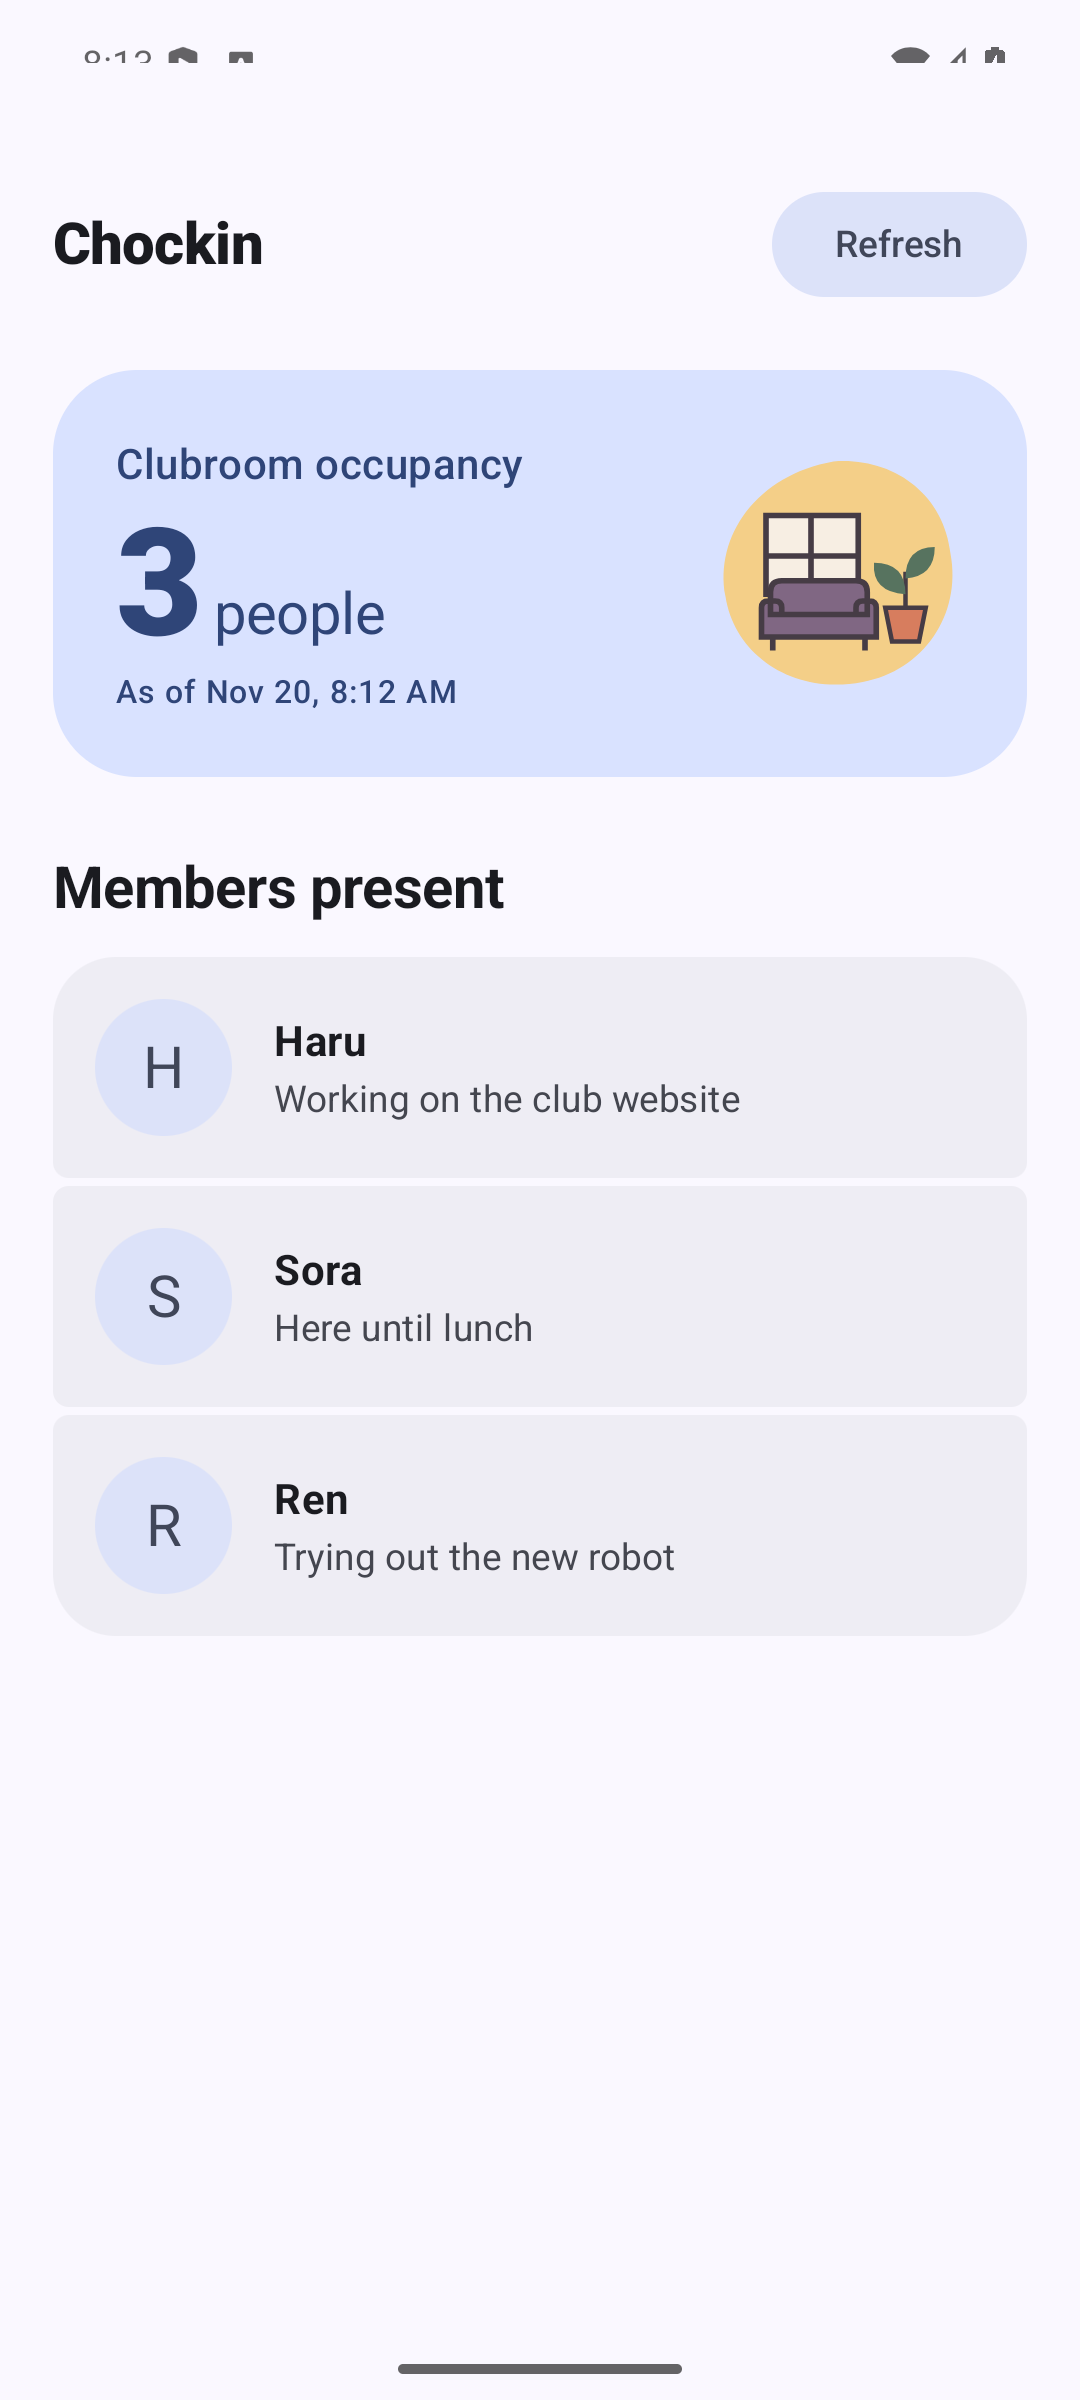
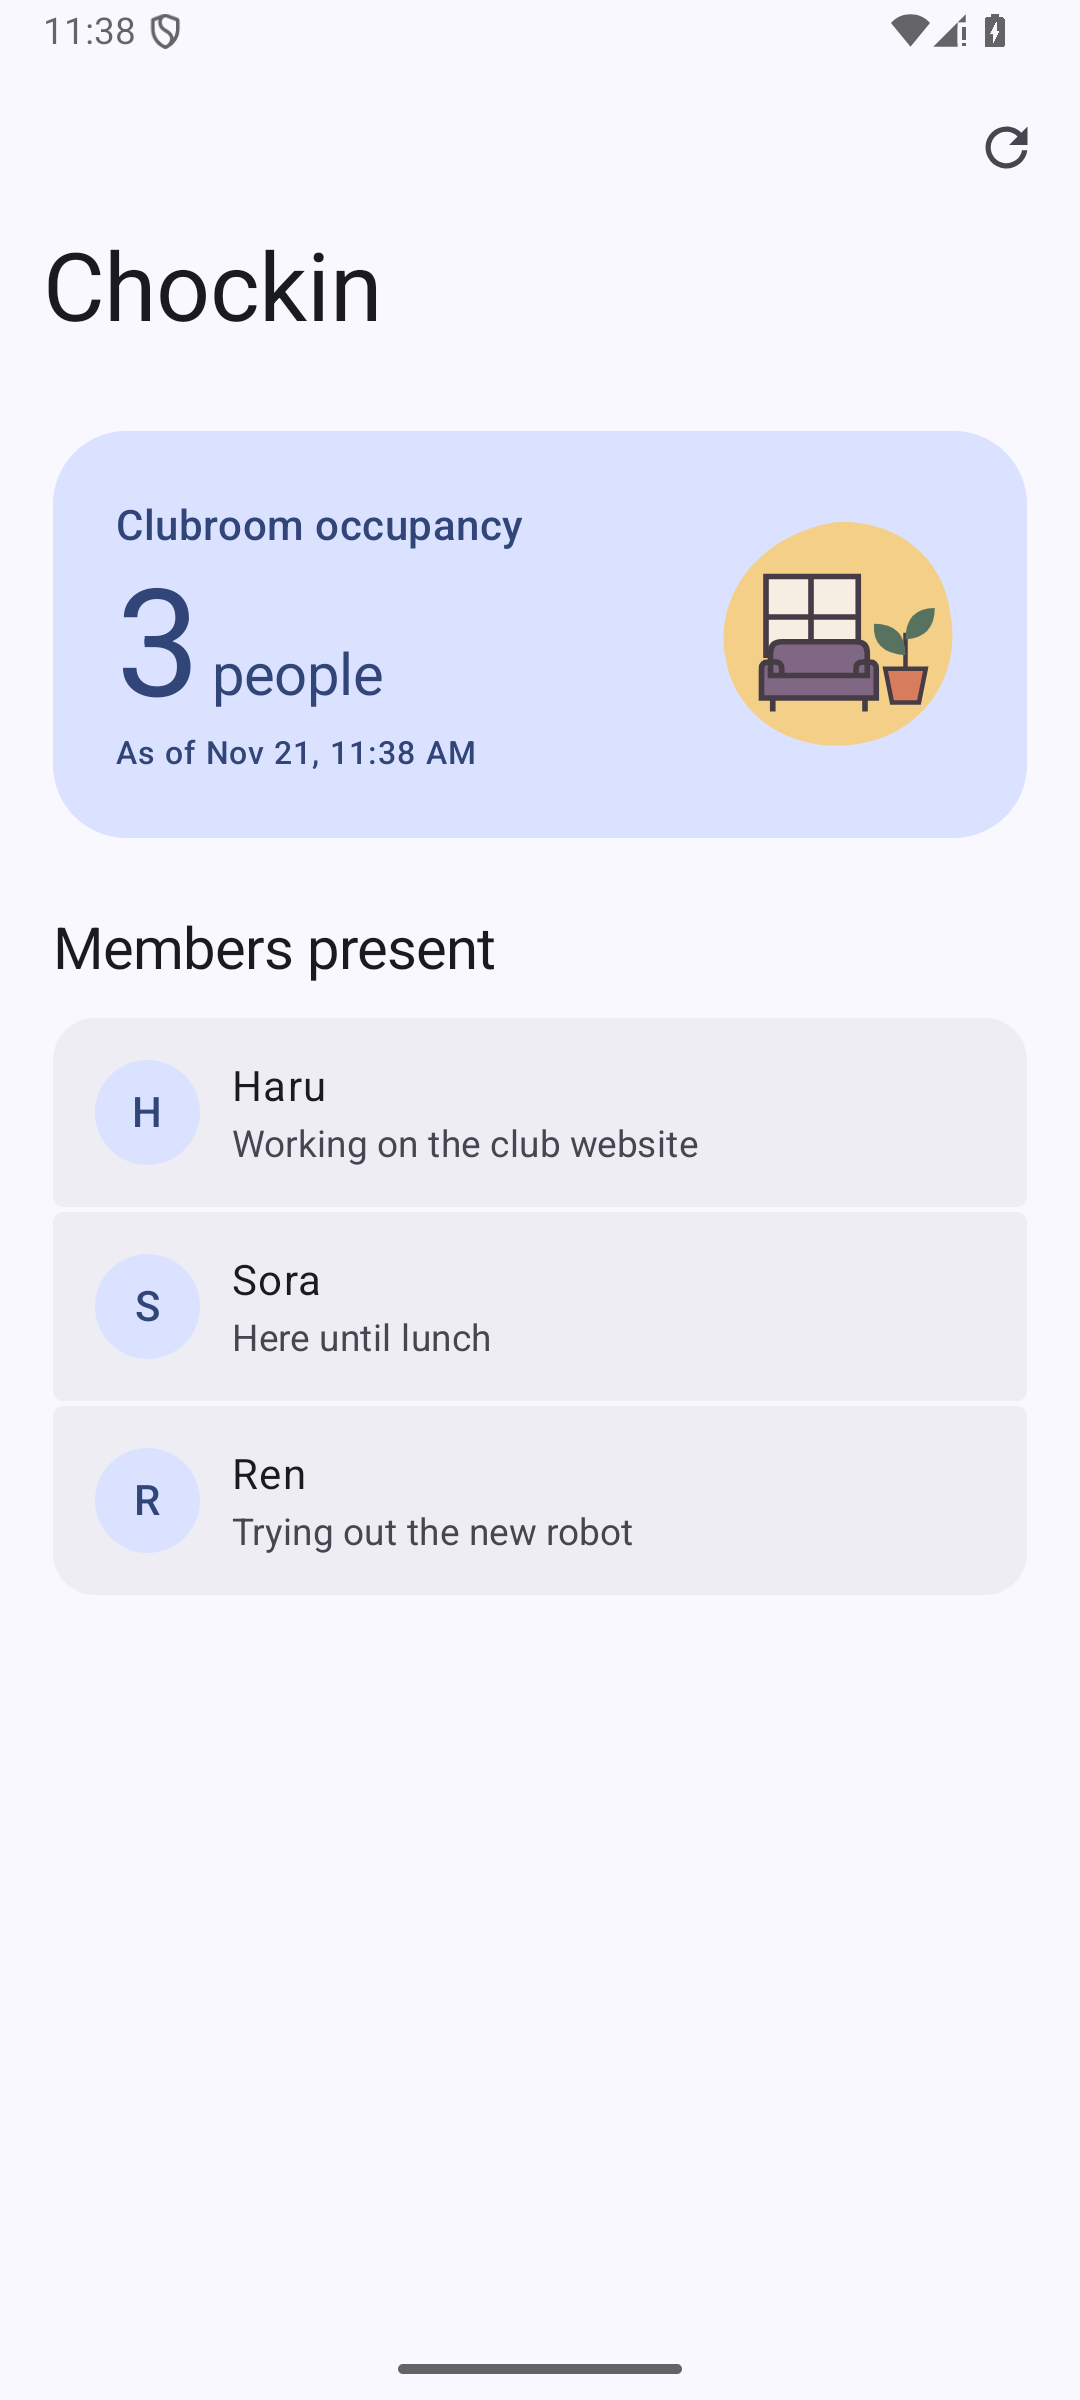
docs: refresh README screenshots and refresh instructions

diff --git a/README.md b/README.md
@@ -22,4 +22,4 @@ You can also build the app yourself. Open the `app/` folder in Android Studio, s
 2. Open **Widgets** and find **Chockin Widget**.
 3. Drag **Clubroom occupancy** onto your home screen.
 
-The widget checks for updates about every 30 minutes. To check sooner, tap the widget and then tap **Refresh** in the app.
+The widget checks for updates about every 30 minutes. To check sooner, tap the widget to open the app, then pull down on the list or tap the refresh button.
